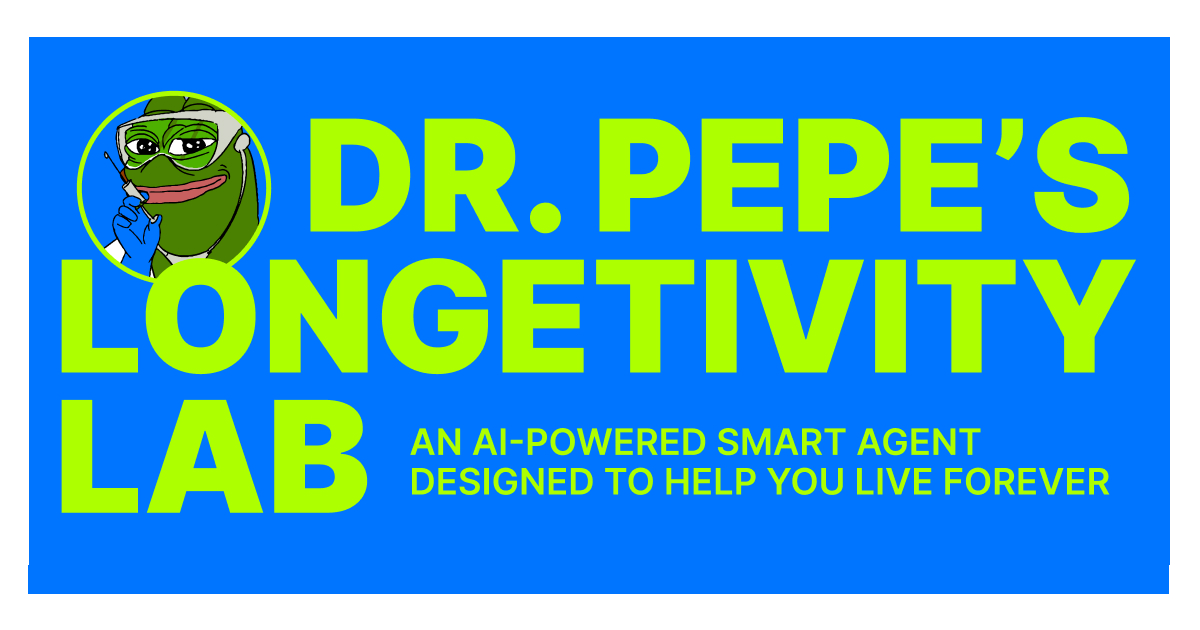
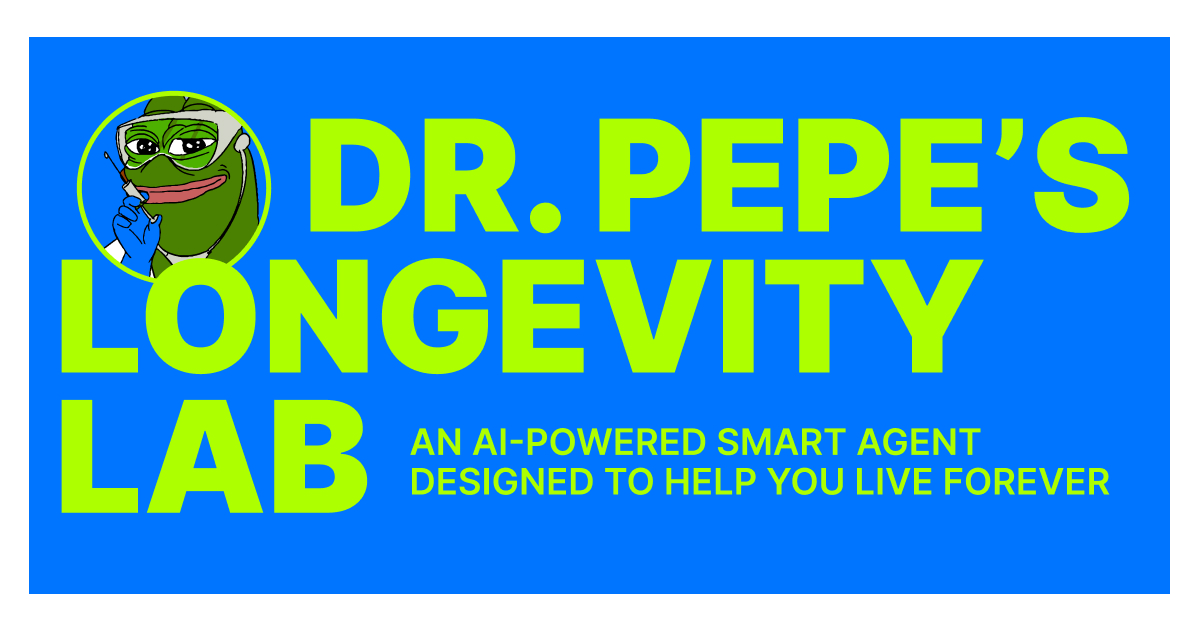
logevity fix

Changed region(s): [[0.4933, 0.3921, 0.9558, 0.6032]]

diff --git a/public/index.html b/public/index.html
@@ -7,20 +7,20 @@
     <meta name="theme-color" content="#000000" />
 
     <!-- SEO Meta Tags -->
-    <meta name="title" content="Dr. Pepe Longetivity Lab - AI-Powered Smart Agent for Eternal Life" />
+    <meta name="title" content="Dr. Pepe Longevity Lab - AI-Powered Smart Agent for Eternal Life" />
     <meta name="description" content="Join the community and explore our AI-powered smart agent designed to help you live longer and healthier." />
-    <meta name="keywords" content="AI, Longetivity, Health, Smart Agent, Community, Eternal Life" />
+    <meta name="keywords" content="AI, Longevity, Health, Smart Agent, Community, Eternal Life" />
     
     <!-- Open Graph Meta Tags -->
-    <meta property="og:title" content="Dr. Pepe Longetivity Lab - AI-Powered Smart Agent for Eternal Life" />
+    <meta property="og:title" content="Dr. Pepe Longevity Lab - AI-Powered Smart Agent for Eternal Life" />
     <meta property="og:description" content="Join the community and explore our AI-powered smart agent designed to help you live longer and healthier." />
     <meta property="og:image" content="%PUBLIC_URL%/DRPPEPE_SocialShareImage.jpg" />
-    <meta property="og:url" content="https://yourwebsite.com" />
+    <meta property="og:url" content="https://drpepe.ai" />
     <meta property="og:type" content="website" />
 
     <!-- X (formerly Twitter) Card Meta Tags -->
     <meta name="twitter:card" content="summary_large_image" />
-    <meta name="twitter:title" content="Dr. Pepe Longetivity Lab - AI-Powered Smart Agent for Eternal Life" />
+    <meta name="twitter:title" content="Dr. Pepe Longevity Lab - AI-Powered Smart Agent for Eternal Life" />
     <meta name="twitter:description" content="Join the community and explore our AI-powered smart agent designed to help you live longer and healthier." />
     <meta name="twitter:image" content="%PUBLIC_URL%/DRPPEPE_SocialShareImage.jpg" />
 
@@ -29,14 +29,12 @@
     {
       "@context": "https://schema.org",
       "@type": "Organization",
-      "name": "Dr. Pepe Longetivity Lab",
+      "name": "Dr. Pepe Longevity Lab",
       "url": "https://drpepe.ai",
       "logo": "%PUBLIC_URL%/logo192.png",
       "description": "Join the community and explore our AI-powered smart agent designed to help you live longer and healthier.",
       "sameAs": [
-        "https://www.facebook.com/drpepeai",
-        "https://www.x.com/drpepeai",  
-        "https://www.linkedin.com/in/drpepeai"
+        "https://x.com/drpepe_ai",  
       ]
     }
     </script>
@@ -52,7 +50,7 @@
     <link rel="preconnect" href="https://fonts.gstatic.com" crossorigin>
     <link href="https://fonts.googleapis.com/css2?family=Inter:ital,opsz,wght@0,14..32,100..900;1,14..32,100..900&display=swap" rel="stylesheet">
   
-    <title>Dr. Pepe Longetivity Lab - AI-Powered Smart Agent</title>
+    <title>Dr. Pepe Longevity Lab - AI-Powered Smart Agent</title>
   </head>
   <body>
     <noscript>You need to enable JavaScript to run this app.</noscript>

diff --git a/src/components/Footer/NewsletterModal/Modal.js b/src/components/Footer/NewsletterModal/Modal.js
@@ -60,7 +60,7 @@ const Modal = ({ message, onClose }) => {
         </div>
 
         <div  className={styles.modal_title}>Prescription Filled</div>
-        <div className={styles.modal_subtitle_one}>Welcome to dr.pepe Longetivity Lab newsletter</div>
+        <div className={styles.modal_subtitle_one}>Welcome to dr.pepe Longevity Lab newsletter</div>
         <div className={styles.modal_subtitle_two}>You’re now officially on Dr. Pepe’s regimen for a longer life! Prepare for groundbreaking research, wellness hacks, and the inside scoop on living forever.</div>
       </div>
     </div>
